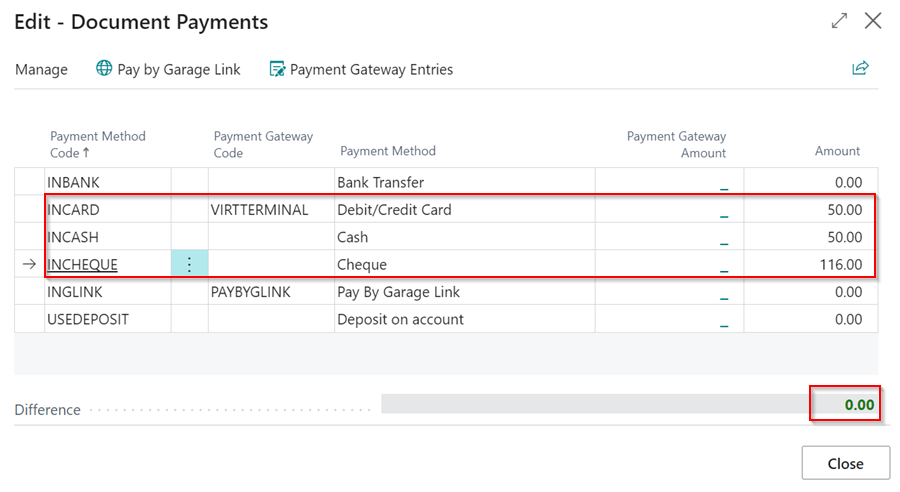
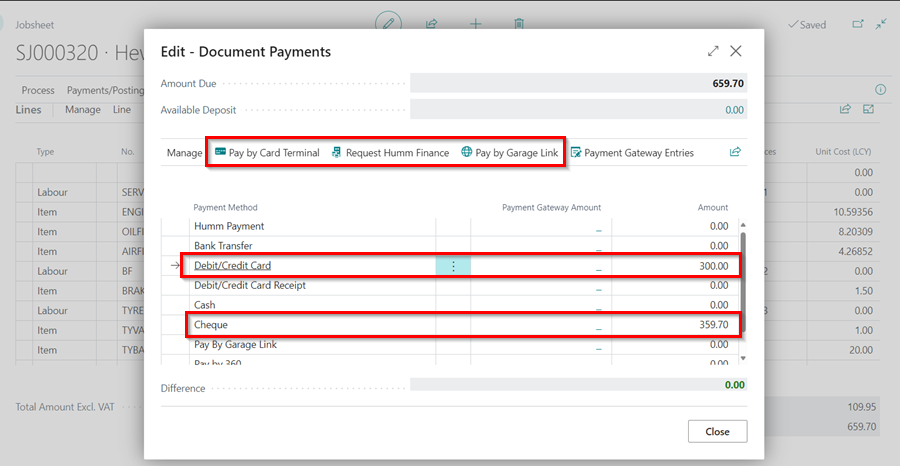
Add payment-related documentation

diff --git a/docs/garagehive-understanding-the-schedule.md b/docs/garagehive-understanding-the-schedule.md
@@ -25,7 +25,7 @@ The service schedule is a tool predominantly used to manage your workshop. Garag
 14. [Using the search function in the schedule](#using-the-search-function-in-the-schedule)
 15. [Adding an allocation type](#adding-an-allocation-type)
 
-###  Understanding the schedule layout
+###  Understanding the Schedule Layout
 The service schedule layout is divided into the following parts:
 
 ![](media/garagehive-understanding-the-schedule-layout1.png)
@@ -103,7 +103,7 @@ The schedule can be customised to your liking; for example, you can reduce the n
 
 [Go back to top](#top)
 
-### Adding resources in the schedule
+### Adding Resources in the Schedule
 In Garage Hive, resources refer to all of the assets that the company has that aid and support the business in completing its work, including the technicians. Technicians are added via [User Management](/docs/garagehive-user-management.html), but their appearance in the schedule can be controlled. Here's how to add or manage resources in the schedule in general:
 1. In the top-right corner, choose the ![](media/search_icon.png) icon, enter **Schedule Resource Group** and select the related link.
 2. In the list that appears, select the **Default** resource group and then click **Specifications** from the menu bar.
@@ -121,7 +121,7 @@ In Garage Hive, resources refer to all of the assets that the company has that a
 
 [Go back to top](#top)
 
-### Rearranging resources in the schedule
+### Rearranging Resources in the Schedule
 Rearranging the resources, how they appear from top to bottom, helps organize which resources to be at the top and how they should follow each other. 
 
 {% include tip.html title="Note" text="It is recommended to have the bays at the top and the technicians at the bottom." %}
@@ -142,7 +142,7 @@ To rearrange:
 
 [Go back to top](#top)
 
-### Managing service hours in the schedule
+### Managing Service Hours in the Schedule
 The service hours are the hours in the schedule when the resources are available for work. For example, you could add the technicians’ working hours as 08:00 a.m. to 17:00 p.m. every day. To change a resource's service hours:
 1. In the top-right corner, choose the ![](media/search_icon.png) icon, enter **Service Hours** and select related result.
 2. The list that appears contains all of the resources that have been added in the system, with their service hours specified for various days of the week.
@@ -157,7 +157,7 @@ The service hours are the hours in the schedule when the resources are available
 
 [Go back to top](#top)
 
-### Adding resources calender changes
+### Adding Resources Calender Changes
 Sometimes there might be a single change of the scheduled work time for the resources, and you have to change it in the schedule:
 1. click on **Related** from the menu bar.
 2. Select **Resource Calender Changes** in the service schedule page.
@@ -178,7 +178,7 @@ Sometimes there might be a single change of the scheduled work time for the reso
 
 [Go back to top](#top)
 
-### View the statistics of the schedule
+### View the Statistics of the Schedule
 The schedule statistical information summarizes the resources capacity, remaining hours after allocations, a list of all the allocations for the day, and the total jobsheets for all the allocations made for the day. To view the statistics for a day:
 1. From the view FastTab, select **Period Type** as **Day**.
 2. The **Start Date** as the day you want to view the statistics.
@@ -189,7 +189,7 @@ The schedule statistical information summarizes the resources capacity, remainin
 
 [Go back to top](#top)
 
-### Adding a standard event
+### Adding a Standard Event
 A standard event is an allocation not related to a jobsheet but adds other considerations about the resources, such as a sick off, etc. To add a standard event:
 1. Click and drag in the booking slot along the resource to allocate.
 2. Release up to the time when the standard event ends. 
@@ -202,7 +202,7 @@ A standard event is an allocation not related to a jobsheet but adds other consi
 
 [Go back to top](#top)
 
-### How to exclude some standard events when calculating available hours
+### How to Exclude Some Standard Events When Calculating Available Hours
 1. The schedule's available hours are shown in the header. They show the currently available hours after subtracting the total scheduled hours.
 
    ![](media/garagehive-understanding-the-schedule-exclude-standard-event1.png)
@@ -220,7 +220,7 @@ A standard event is an allocation not related to a jobsheet but adds other consi
 
 [Go back to top](#top)
 
-### Understanding the emojis in an allocation
+### Understanding the Emojis in an Allocation
 The emojis are used in the allocations to visually help the service advisor and technicians understand status and requirements of the job. Here are some of the most commonly used emojis: <br>
 
 * 📫 This indicates a posted jobsheet. <br>
@@ -267,7 +267,7 @@ The addition of allocations count improves the visibility of Jobsheet allocation
 
 [Go back to top](#top)
 
-### Using the search function in the schedule
+### Using the Search Function in the Schedule
 When there are many bookings in the schedule, it becomes harder to find an allocation that you are looking for easily. The search function helps you overcome this challenge by enabling you to search for an allocation using the customer name, vehicle registration No., vehicle make or model, or the jobsheet No.:
 1. From the view FastTab, under the **Search** field, enter the allocation details to search.
 2. Press enter; this hides all the other allocations, leaving the allocation you need.
@@ -277,7 +277,7 @@ When there are many bookings in the schedule, it becomes harder to find an alloc
 
 [Go back to top](#top)
 
-### Adding an allocation type
+### Adding an Allocation Type
 Allocation Type appears after the drag and release action on the schedule, where you select which allocation to add.
 
    ![](media/garagehive-understanding-the-schedule15.png)

diff --git a/docs/garagehive-jobsheet-taking-payment.md b/docs/garagehive-jobsheet-taking-payment.md
@@ -3,6 +3,8 @@ layout: docs
 title: Taking a Payment and Posting a Jobsheet
 ---
 
+<a name="top"></a>
+
 When a Jobsheet is completed, it should now be posted in order to update the relevant accounts in the system. To do so, you must understand how to take payment on a Jobsheet, update the Jobsheet lines, and then post the Jobsheet.
 
 ## In this article
@@ -11,7 +13,7 @@ When a Jobsheet is completed, it should now be posted in order to update the rel
 4. [Taking a payment in a Jobsheet and posting it](#taking-a-payment-in-a-jobsheet-and-posting-it)
 5. [Post the Jobsheet without taking the payment](#post-the-jobsheet-without-taking-the-payment)
 
-### Adding resources to labour lines in a Jobsheet
+### Adding Resources to Labour Lines in a Jobsheet
 Before posting the jobsheet, all labour lines must-have resource information added to them. There are several ways this can be done:
 1. If the Technician uses the Technician **Confirmed** button on their device, the resources column will be pre-populated.
 
@@ -29,7 +31,10 @@ Before posting the jobsheet, all labour lines must-have resource information add
 
     ![](media/garagehive-jobsheet-adding-resources4.gif)
 
-### Updating the items numbers and quantities
+
+[Go back to top](#top)
+
+### Updating the Items Numbers and Quantities
 1. All item numbers must be updated from the **Placeholder Item**, such as **MISC, to their actual item numbers. Ensure that the quantities and prices of the items remain unchanged.
 
     ![](media/garagehive-jobsheet-placeholder-item1.gif)
@@ -42,23 +47,35 @@ Before posting the jobsheet, all labour lines must-have resource information add
 
     ![](media/garagehive-jobsheet-taking-payment3.png)
 
-### Taking a payment in a Jobsheet and posting it
-When the job is completed and the financial information is correct. You can now **take payment** from the customer and post the Jobsheet, or you can **add payment terms** to the Jobsheet so that you can post it. To take payment from the Jobsheet:
-1. Select **Payments/Posting** from the jobsheet's menu bar, then **Take Payment** to select the customer's payment method and add the amount paid along the customer's payment method row.
+
+[Go back to top](#top)
+
+### Taking a Payment in a Jobsheet and Posting It
+Once the job is finished and the financial details are correct, you have two options. You can either take payment from the customer and post the Jobsheet, or you can [add payment terms](#post-the-jobsheet-without-taking-the-payment) to the Jobsheet and then post it. To take payment from the Jobsheet:
+1. Select **Payments/Posting** from the Jobsheet's menu bar, then **Take Payment**.
 
     ![](media/garagehive-jobsheet-taking-payment1.png)
 
+2. Enter the amount paid in the payment method row corresponding to the customer's chosen payment method. If the customer is paying by card, select **Pay by Card Terminal** from the menu bar. If they are using Humm Financing, select **Request Humm Financing** from the menu bar. For payments made through GarageLink, select **Pay by Garage Link** from the menu bar.
+
     ![](media/garagehive-jobsheet-taking-payment2.png)
 
-2. You can view other payments that have been applied in the document by selecting **Payment Gateway Entries** action, in the **Take Payment** window.
+3. When multiple card terminals are available for the location, a notification will prompt you to select the card terminal that the customer is using.
+
+   ![](media/garagehive-jobsheet-taking-payment2d.png)
+
+4. You can view other payments that have been applied in the document by selecting **Payment Gateway Entries** action, in the **Document Payments** window.
 
     ![](media/garagehive-jobsheet-taking-payment2a.png)
 
-3. Close the **Take Payment** page, and select the **Post** under the **Payment/Posting** menu.
+5. Close the **Take Payment** page, and select the **Post** under the **Payment/Posting** menu.
 
    ![](media/garagehive-jobsheet-taking-payment2c.png)
 
-### Post the Jobsheet without taking the payment
+
+[Go back to top](#top)
+
+### Post the Jobsheet Without Taking the Payment
 1. Scroll down to the **Invoicing** FastTab and enter the customer's **Payment Terms Code**, such as **10 days from invoice (10D)**.
 
    ![](media/garagehive-jobsheet-taking-payment2b.png)
@@ -73,6 +90,20 @@ Click **Yes** on the pop-up notification of *do you want to post the Jobsheet?*.
    ![](media/garagehive-jobsheet-posting1.gif)
 
 
+[Go back to top](#top)
+
 <br>
 
 {% include tip.html title="Note" text="After the jobsheet has been posted, it can be found in Posted & Archived Documents under Posted Jobsheet, which can be accessed from the role centre navigation menu." %}
+
+<br>
+
+### See Also
+
+[Setting Up Payment by Card Terminal](garagehive-setting-up-payment-by-card-terminal.html){:target="_blank"} \
+[Setting Up Payment by Garage Link for Pay360](garagehive-payment-gateways.html){:target="_blank"} \
+[Setting Up Payment by Garage Link for Dojo](garagehive-payment-gateways.html){:target="_blank"} \
+[How to Use Humm Financing](garagehive-humm-financing.html){:target="_blank"} \
+[How to Set Card Terminals Into Integration Mode](garagehive-setting-card-terminals-into-integration-mode.html){:target="_blank"} \
+[Generating Paymentsense Card Machine End of Day, X Balance and Z Balance Report](garagehive-paymentsense-card-machine-x-and-z-report.html){:target="_blank"}
+ 

diff --git a/docs/garagehive-humm-financing.md b/docs/garagehive-humm-financing.md
@@ -3,6 +3,8 @@ layout: docs
 title: How to Use Humm Financing
 ---
 
+<a name="top"></a>
+
 **Humm** is a debt-factoring service integrated with Garage Hive that allows customers to have work done on their vehicles or purchase a vehicle using Humm financing. Customers can then transfer their bills to Humm and have their needs fulfilled.
 
 ### Humm Financing Registration
@@ -37,6 +39,9 @@ To register for Humm financing, please fill out the form at below:
 5. To view the payment status, select **Payment Gateway Entries** from the menu bar.
 
    ![](media/garagehive-humm-payment-request5.png)
+
+
+[Go back to top](#top)
 
 ### Starting the Purchase on Humm Website
 1. After requesting Humm financing, the customer will receive an email with a link to start the purchase.
@@ -83,6 +88,9 @@ To register for Humm financing, please fill out the form at below:
 
    ![](media/garagehive-humm-payment-start-purchase12.png)
 
+
+[Go back to top](#top)
+
 ### Finalise the Payment in Garage Hive
 1. When the payment is authorised in Humm, a notification will appear in the **Attention** tile on Garage Hive's Role Centre.
 
@@ -117,3 +125,17 @@ To register for Humm financing, please fill out the form at below:
    ![](media/garagehive-humm-finalise-payment8.png)
 
 9. The payment is now finalised.
+
+[Go back to top](#top)
+
+<br>
+
+### See Also
+
+[Taking a Payment and Posting a Jobsheet](garagehive-jobsheet-taking-payment.html){:target="_blank"} \
+[Setting Up Payment by Garage Link for Pay360](garagehive-payment-gateways.html){:target="_blank"} \
+[Setting Up Payment by Garage Link for Dojo](garagehive-payment-gateways.html){:target="_blank"} \
+[Setting Up Payment by Card Terminal](garagehive-setting-up-payment-by-card-terminal.html){:target="_blank"} \
+[How to Set Card Terminals Into Integration Mode](garagehive-setting-card-terminals-into-integration-mode.html){:target="_blank"} \
+[Generating Paymentsense Card Machine End of Day, X Balance and Z Balance Report](garagehive-paymentsense-card-machine-x-and-z-report.html){:target="_blank"}
+ 

diff --git a/docs/garagehive-setting-up-payment-by-glink-dojo.md b/docs/garagehive-setting-up-payment-by-glink-dojo.md
@@ -3,6 +3,8 @@ layout: docs
 title: Setting Up Payment by Garage Link for Dojo in Garage Hive
 ---
 
+<a name="top"></a>
+
 ## In this article
 1. [Setting Up Payment by Garage Link for Dojo in Garage Hive](#setting-up-payment-by-garage-link-for-dojo-in-garage-hive)
 2. [Testing the garage link setup](#testing-the-garage-link-setup)
@@ -58,6 +60,8 @@ Garage Link for Dojo is a payment gateway that is used for online payments. To s
 1. Click the **Back** arrow to exit the **Payment Gateway Card** and save your changes. Your new payment method is now active.
 
 
+[Go back to top](#top)
+
 ### Testing the Garage Link setup
 Once configured, it is recommended that you run a **£0.01** transaction as a test. Create a new jobsheet with your personal information, add a  or **consumable or a non-inventory item**, and then proceed to the **Take Payment** screen. Once on the **Take Payment** screen, select **Process** in the action bar and **Pay By Garage Link**.
 
@@ -75,3 +79,17 @@ You can check the status of the payment in **Garage Hive** by selecting the **Pa
 ![](media/paybygaragelink-gateway-entries.jpg)
 
 You should also receive an email confirming the payment has been received. Once you've received payment for this job, post it with the penny on it.
+
+[Go back to top](#top)
+
+<br>
+
+### See Also
+
+[Taking a Payment and Posting a Jobsheet](garagehive-jobsheet-taking-payment.html){:target="_blank"} \
+[Setting Up Payment by Garage Link for Pay360](garagehive-payment-gateways.html){:target="_blank"} \
+[How to Use Humm Financing](garagehive-humm-financing.html){:target="_blank"} \
+[Setting Up Payment by Card Terminal](garagehive-setting-up-payment-by-card-terminal.html){:target="_blank"} \
+[How to Set Card Terminals Into Integration Mode](garagehive-setting-card-terminals-into-integration-mode.html){:target="_blank"} \
+[Generating Paymentsense Card Machine End of Day, X Balance and Z Balance Report](garagehive-paymentsense-card-machine-x-and-z-report.html){:target="_blank"}
+ 

diff --git a/docs/garagehive-setting-up-payment-by-card-terminal.md b/docs/garagehive-setting-up-payment-by-card-terminal.md
@@ -3,6 +3,8 @@ layout: docs
 title: Setting Up Payment by Card Terminal
 ---
 
+<a name="top"></a>
+
 ## Setting Up Payment by Card Terminal
 To setup payment by **Card Terminal**:
 1. **Payment Sense** will send you an email with the details you'll need to set up the integration; here's an example:
@@ -26,4 +28,22 @@ To setup payment by **Card Terminal**:
    ![](media/garagehive-card-terminal4.png)
 
 7. Click the **Back** arrow to exit the **Payment Gateway Card** and save your changes. Your new payment method is now active.
+
+
+[Go back to top](#top)
+
+<br>
+
+{% include tip.html title="Note" text="You can set up multiple card terminals based on the number of terminals available at your location." %}
+
+<br>
+
+### See Also
+
+[Taking a Payment and Posting a Jobsheet](garagehive-jobsheet-taking-payment.html){:target="_blank"} \
+[Setting Up Payment by Garage Link for Pay360](garagehive-payment-gateways.html){:target="_blank"} \
+[Setting Up Payment by Garage Link for Dojo](garagehive-payment-gateways.html){:target="_blank"} \
+[How to Use Humm Financing](garagehive-humm-financing.html){:target="_blank"} \
+[How to Set Card Terminals Into Integration Mode](garagehive-setting-card-terminals-into-integration-mode.html){:target="_blank"} \
+[Generating Paymentsense Card Machine End of Day, X Balance and Z Balance Report](garagehive-paymentsense-card-machine-x-and-z-report.html){:target="_blank"}
  

diff --git a/docs/garagehive-setting-up-payment-by-glink-pay360.md b/docs/garagehive-setting-up-payment-by-glink-pay360.md
@@ -146,3 +146,14 @@ After creating an account with **Pay360**, you should now add **Pay360** as a **
 
 
 [Go back to top](#top)
+
+<br>
+
+### See Also
+
+[Taking a Payment and Posting a Jobsheet](garagehive-jobsheet-taking-payment.html){:target="_blank"} \
+[Setting Up Payment by Garage Link for Dojo](garagehive-payment-gateways.html){:target="_blank"} \
+[How to Use Humm Financing](garagehive-humm-financing.html){:target="_blank"} \
+[Setting Up Payment by Card Terminal](garagehive-setting-up-payment-by-card-terminal.html){:target="_blank"} \
+[How to Set Card Terminals Into Integration Mode](garagehive-setting-card-terminals-into-integration-mode.html){:target="_blank"} \
+[Generating Paymentsense Card Machine End of Day, X Balance and Z Balance Report](garagehive-paymentsense-card-machine-x-and-z-report.html){:target="_blank"}
